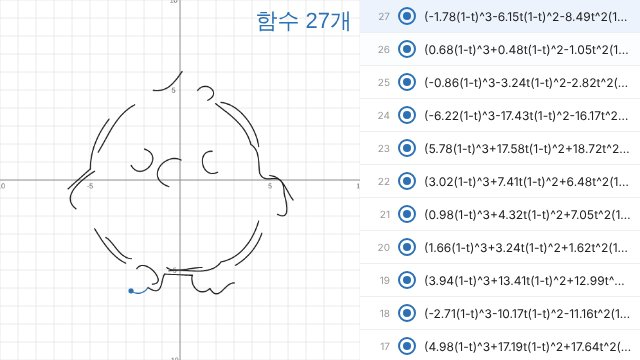
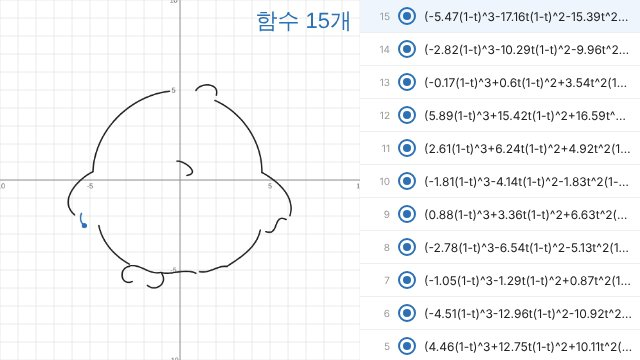
func-draw: outline-centerline mode (thinning) for line-art images, higher res, slower reveal
Claude-Session: https://claude.ai/code/session_016fMKs9r5tx4oW9bQCSMowB

diff --git a/games/func-draw/index.html b/games/func-draw/index.html
@@ -81,6 +81,9 @@ function blur(d,w,h){const o=new Uint8ClampedArray(d);for(let y=1;y<h-1;y++)for(
 function mergeClose(cs,th){const out=[];for(const c of cs){if(!out.some(o=>Math.hypot(o[0]-c[0],o[1]-c[1],o[2]-c[2])<th))out.push(c)}return out}
 function killSmall(lab,w,h,minA){const seen=new Int32Array(w*h).fill(-1);let comp=0;const stack=[];for(let i=0;i<w*h;i++){if(seen[i]>=0)continue;const v=lab[i];const px=[];stack.push(i);seen[i]=comp;const nb={};while(stack.length){const j=stack.pop();px.push(j);const x=j%w,y=(j/w)|0;for(const[dx,dy]of[[1,0],[-1,0],[0,1],[0,-1]]){const nx=x+dx,ny=y+dy;if(nx<0||ny<0||nx>=w||ny>=h)continue;const k=ny*w+nx;if(lab[k]===v){if(seen[k]<0){seen[k]=comp;stack.push(k)}}else nb[lab[k]]=(nb[lab[k]]||0)+1}}
   if(px.length<minA){let bk=-1,bc=0;for(const k in nb)if(nb[k]>bc){bc=nb[k];bk=+k}if(bk>=0)for(const j of px){lab[j]=bk;seen[j]=-1}}comp++}}
+function thin(m,w,h){// Zhang-Suen
+  const g=(x,y)=>(x<0||y<0||x>=w||y>=h)?0:m[y*w+x];let changed=true,it=0;
+  while(changed&&it++<60){changed=false;for(let step=0;step<2;step++){const del=[];for(let y=1;y<h-1;y++)for(let x=1;x<w-1;x++){if(!m[y*w+x])continue;const p2=g(x,y-1),p3=g(x+1,y-1),p4=g(x+1,y),p5=g(x+1,y+1),p6=g(x,y+1),p7=g(x-1,y+1),p8=g(x-1,y),p9=g(x-1,y-1);const B=p2+p3+p4+p5+p6+p7+p8+p9;if(B<2||B>6)continue;const seq=[p2,p3,p4,p5,p6,p7,p8,p9,p2];let A=0;for(let i=0;i<8;i++)if(seq[i]===0&&seq[i+1]===1)A++;if(A!==1)continue;if(step===0){if(p2*p4*p6!==0||p4*p6*p8!==0)continue}else{if(p2*p4*p8!==0||p2*p6*p8!==0)continue}del.push(y*w+x)}for(const i of del)m[i]=0;if(del.length)changed=true}}return m}
 function edges(lab,w,h){const e=new Uint8Array(w*h);for(let y=0;y<h;y++)for(let x=0;x<w;x++){const v=lab[y*w+x];if((x<w-1&&lab[y*w+x+1]!==v)||(y<h-1&&lab[(y+1)*w+x]!==v))e[y*w+x]=1}return e}
 function trace(e,w,h){const vis=new Uint8Array(w*h);const paths=[];const N8=[[1,0],[0,1],[-1,0],[0,-1],[1,1],[1,-1],[-1,1],[-1,-1]];
   const deg=i=>{let c=0;const x=i%w,y=(i/w)|0;for(const[dx,dy]of N8){const nx=x+dx,ny=y+dy;if(nx>=0&&ny>=0&&nx<w&&ny<h&&e[ny*w+nx])c++}return c};
@@ -97,11 +100,17 @@ function fitBezier(pts,tol,out){const n=pts.length;if(n<2)return;const P0=pts[0]
   if((me>tol||far)&&n>=4){fitBezier(pts.slice(0,mi+1),tol,out);fitBezier(pts.slice(mi),tol,out)}else if(far||(me>tol&&n<4)){for(let i=1;i<n;i++)fitBezier([pts[i-1],pts[i]],tol,out)}else out.push([P0,P1,P2,P3])}
 
 let curves=[],colors=null,labMap=null,imgW=0,imgH=0,bgColor='#fff',scale=1,offx=0,offy=0;
-function process(img){const maxD=260;const r=Math.min(1,maxD/Math.max(img.width,img.height));imgW=Math.round(img.width*r);imgH=Math.round(img.height*r);const c=document.createElement('canvas');c.width=imgW;c.height=imgH;const g=c.getContext('2d');g.drawImage(img,0,0,imgW,imgH);const raw=g.getImageData(0,0,imgW,imgH);blur(raw.data,imgW,imgH);blur(raw.data,imgW,imgH);const data=raw.data;
-  colors=mergeClose(kmeans(data,8),42);labMap=labelImg(data,imgW,imgH,colors);killSmall(labMap,imgW,imgH,Math.max(12,imgW*imgH*0.002));
+function process(img){const maxD=380;const r=Math.min(1,maxD/Math.max(img.width,img.height));imgW=Math.round(img.width*r);imgH=Math.round(img.height*r);const c=document.createElement('canvas');c.width=imgW;c.height=imgH;const g=c.getContext('2d');g.drawImage(img,0,0,imgW,imgH);const raw=g.getImageData(0,0,imgW,imgH);blur(raw.data,imgW,imgH);const data=raw.data;
+  colors=mergeClose(kmeans(data,10),30);labMap=labelImg(data,imgW,imgH,colors);killSmall(labMap,imgW,imgH,Math.max(10,imgW*imgH*0.0005));
   // 배경색: 테두리 최빈 라벨
   const cnt={};for(let x=0;x<imgW;x++){cnt[labMap[x]]=(cnt[labMap[x]]||0)+1;cnt[labMap[(imgH-1)*imgW+x]]=(cnt[labMap[(imgH-1)*imgW+x]]||0)+1}let bk=0,bc=0;for(const k in cnt)if(cnt[k]>bc){bc=cnt[k];bk=+k}const bcol=colors[bk];bgColor=`rgb(${bcol.join(',')})`;
-  const e=edges(labMap,imgW,imgH);const paths=trace(e,imgW,imgH);
+  // 검정 외곽선이 있는 그림이면: 선의 중심선을 따고, 색 경계는 선 근처를 제외
+  const dark=new Uint8Array(imgW*imgH);let dc=0;for(let i=0;i<imgW*imgH;i++){const o=i*4;if(data[o+3]>=128&&(data[o]*.3+data[o+1]*.59+data[o+2]*.11)<80){dark[i]=1;dc++}}
+  let e=edges(labMap,imgW,imgH),paths;
+  if(dc>imgW*imgH*0.015){const near=new Uint8Array(imgW*imgH);for(let y=0;y<imgH;y++)for(let x=0;x<imgW;x++){if(!dark[y*imgW+x])continue;for(let dy=-2;dy<=2;dy++)for(let dx=-2;dx<=2;dx++){const nx=x+dx,ny=y+dy;if(nx>=0&&ny>=0&&nx<imgW&&ny<imgH)near[ny*imgW+nx]=1}}
+    for(let i=0;i<imgW*imgH;i++)if(near[i])e[i]=0;
+    const sk=thin(new Uint8Array(dark),imgW,imgH);for(let i=0;i<imgW*imgH;i++)if(sk[i])e[i]=1;
+    paths=trace(e,imgW,imgH)}else paths=trace(e,imgW,imgH);
   // 이미지 px → 좌표(-8..8)
   scale=16/Math.max(imgW,imgH);offx=-imgW*scale/2;offy=imgH*scale/2;
   const toC=p=>[+(p[0]*scale+offx).toFixed(2),+(offy-p[1]*scale).toFixed(2)];
@@ -122,11 +131,11 @@ function drawBase(filled){gb.clearRect(0,0,S,S);if(filled){gb.fillStyle=bgColor;
 function drawFill(){if(!labMap)return;const c=document.createElement('canvas');c.width=imgW;c.height=imgH;const g=c.getContext('2d');const id=g.createImageData(imgW,imgH);for(let i=0;i<imgW*imgH;i++){const col=colors[labMap[i]];id.data[i*4]=col[0];id.data[i*4+1]=col[1];id.data[i*4+2]=col[2];id.data[i*4+3]=255}g.putImageData(id,0,0);
   gb.imageSmoothingEnabled=true;const x0=px(offx),y0=py(offy),w=imgW*scale/RANGE*(S/2),h=imgH*scale/RANGE*(S/2);gb.drawImage(c,x0,y0,w,h)}
 const done=document.createElement('canvas'),gd=done.getContext('2d');
-function strokeCurve(g,b,t1,color){g.strokeStyle=color;g.lineWidth=1.9;g.lineCap='round';g.lineJoin='round';g.beginPath();const n=24;for(let i=0;i<=n;i++){const[x,y]=bez(b,t1*i/n);if(i===0)g.moveTo(px(x),py(y));else g.lineTo(px(x),py(y))}g.stroke()}
+function strokeCurve(g,b,t1,color){g.strokeStyle=color;g.lineWidth=2.3;g.lineCap='round';g.lineJoin='round';g.beginPath();const n=24;for(let i=0;i<=n;i++){const[x,y]=bez(b,t1*i/n);if(i===0)g.moveTo(px(x),py(y));else g.lineTo(px(x),py(y))}g.stroke()}
 let playing=false,idx=0,raf=0,finished=false;
 function addEq(i){const b=curves[i];const d=document.createElement('div');d.className='eq';d.innerHTML=`<span class="n">${i+1}</span><span class="sw"><i></i></span><span class="tex"></span>`;const tx=d.querySelector('.tex');try{katex.render(texOf(b),tx,{throwOnError:false})}catch(e){tx.textContent=desmosOf(b)}$('list').prepend(d);while($('list').children.length>60)$('list').lastChild.remove()}
 function play(){if(playing||finished)return;playing=true;let t=0,start=performance.now(),dur=0,started=false;
-  function step(now){if(!playing)return;if(idx>=curves.length){finish();return}const b=curves[idx];if(!started){started=true;const L=blen(b);dur=Math.max(40,Math.min(320,L*60))/(+$('spd').value/4);start=now;addEq(idx);scratch(dur/1000);$('count').textContent=`함수 ${idx+1}개`}
+  function step(now){if(!playing)return;if(idx>=curves.length){finish();return}const b=curves[idx];if(!started){started=true;const L=blen(b);dur=Math.max(90,Math.min(520,L*110))/(+$('spd').value/4);start=now;addEq(idx);scratch(dur/1000);$('count').textContent=`함수 ${idx+1}개`}
     t=Math.min(1,(now-start)/dur);
     gf.clearRect(0,0,S,S);gf.drawImage(done,0,0,S,S);strokeCurve(gf,b,t,'#2d70b3');const[hx,hy]=bez(b,t);gf.fillStyle='#2d70b3';gf.beginPath();gf.arc(px(hx),py(hy),4,0,7);gf.fill();
     if(t>=1){const sd=done.getContext('2d');strokeCurve(sd,b,1,'#222');idx++;t=0;started=false}
